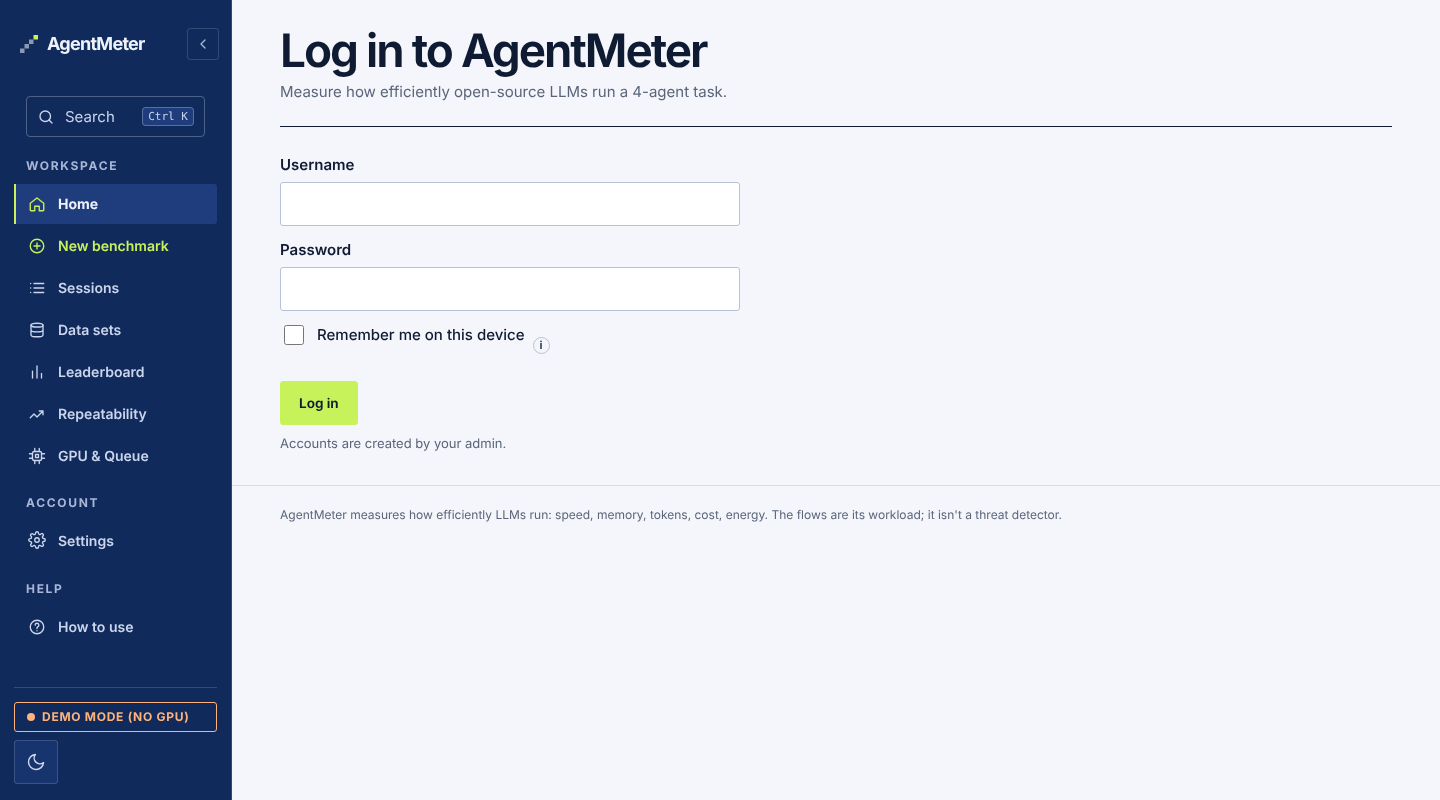
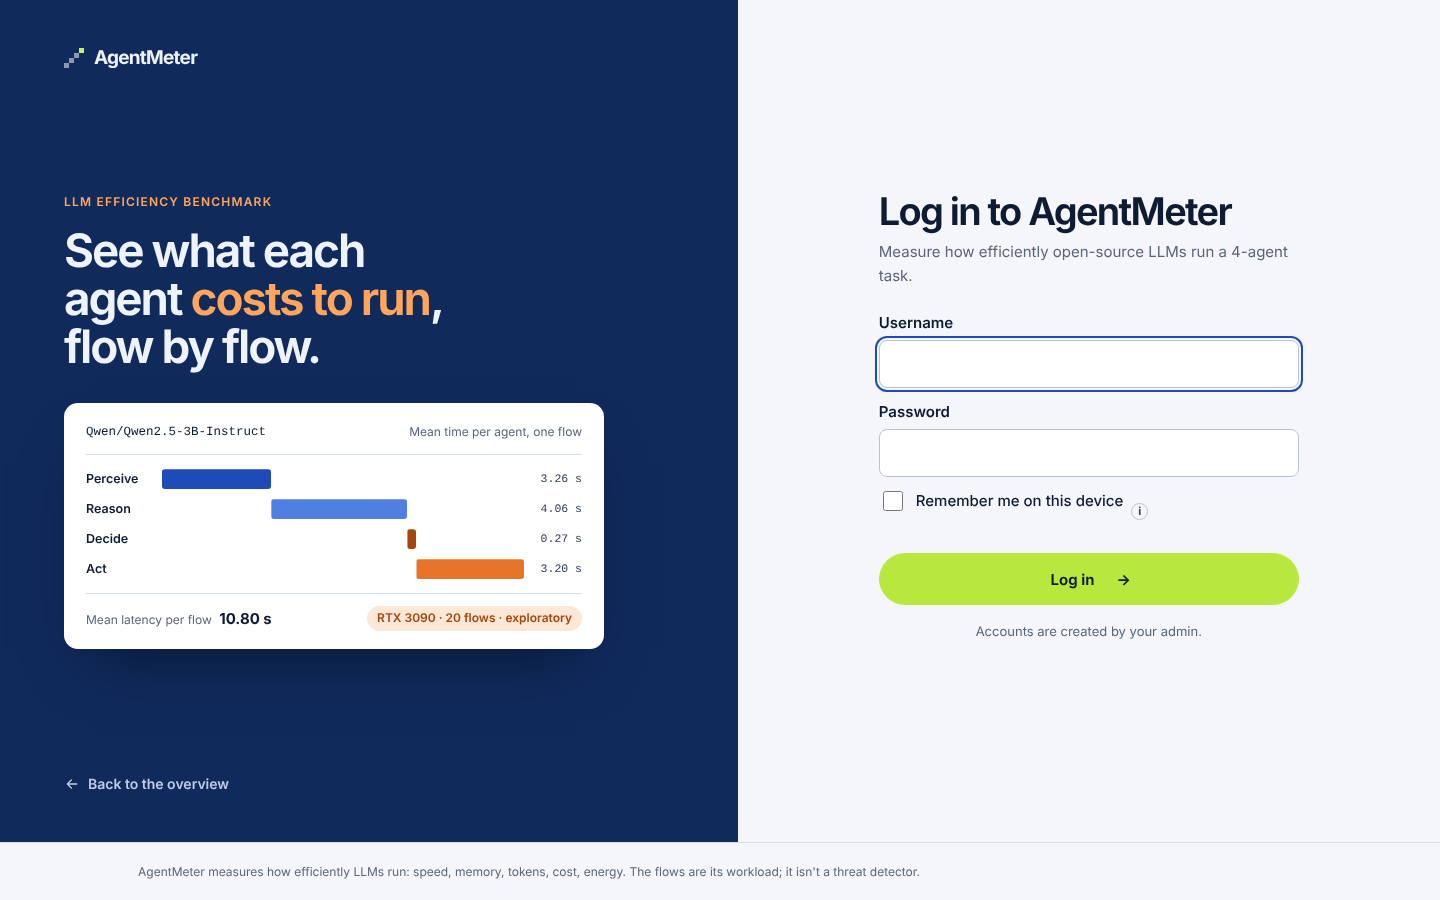
Login: a split screen like the landing page
The login view gets the landing page's navy band on the left (logo, the same headline, the real
per-agent flow chart drawn in once, a Back to the overview link to index.html) and the form on
the right with a full-width lime pill button (fill sweep and arrow nudge on hover, press on
click). While the login view is open the sidebar is hidden with a CSS :has rule, so no script
changes and the CSP hashes stay as they are; every id the login code and the walk-throughs use
is unchanged. Phones get a compact band above the form; reduced motion turns the animation off.

Claude-Session: https://claude.ai/code/session_01TypKwb2FSWwamPpmC7mRiC

diff --git a/web/app.html b/web/app.html
@@ -797,6 +797,81 @@
     :root.side-collapsed .profile-btn { width: auto; padding: 4px; }
   }
   @media (prefers-reduced-motion: reduce) { body, .top, .side-collapse svg { transition: none !important; } }
+
+  /* =====================================================================================
+     Login: a split screen like the landing page (index.html). Navy brand band with the same
+     headline and flow chart on the left, the form on the right. While the login view is open the
+     sidebar/header is hidden (CSS :has, so no script changes); every id and behaviour is unchanged.
+     ===================================================================================== */
+  body:has(#view-login:not([hidden])) .top { display: none; }
+  body:has(#view-login:not([hidden])) { padding-left: 0; }
+  body:has(#view-login:not([hidden])) main.wrap { max-width: none; padding: 0; }
+  body:has(#view-login:not([hidden])) main { padding-top: 0; }
+  body:has(#view-login:not([hidden])) footer { margin-top: 0; }
+  .login-split:not([hidden]) { display: grid; grid-template-columns: minmax(0, 1.05fr) minmax(0, 1fr); min-height: calc(100vh - 58px); }
+  .login-brand { --lf-1: var(--series-1); --lf-2: #4F7FE0; --lf-3: #A2470D; --lf-4: var(--series-2);
+    background: var(--band); color: #EEF2FA; padding: 36px clamp(24px, 4.5vw, 64px); display: flex; flex-direction: column; gap: 40px; }
+  .login-brand :focus-visible { outline-color: var(--cta); }
+  .login-logo { display: inline-flex; align-items: center; gap: 10px; align-self: flex-start; min-height: 44px; color: #EEF2FA; text-decoration: none; font-weight: 700; font-size: 19px; letter-spacing: -.04em; }
+  .login-logo svg { width: 20px; height: 20px; }
+  .login-logo .mark-a { fill: var(--cta); }
+  .login-pitch { margin: auto 0; max-width: 540px; }
+  .login-eyebrow { margin: 0; font-size: 12px; font-weight: 600; letter-spacing: .1em; text-transform: uppercase; color: #FFA65C; }
+  .login-claim { margin: 14px 0 0; font-weight: 650; font-size: clamp(32px, 3.4vw, 46px); line-height: 1.05; letter-spacing: -.045em; color: #EEF2FA; max-width: 13ch; }
+  .login-claim em { font-style: normal; color: #FFA65C; }
+  .login-flow { margin: 32px 0 0; background: var(--surface); color: var(--text); border-radius: 14px; padding: 20px 22px 18px; box-shadow: 0 30px 60px -30px rgba(0, 0, 0, .55); }
+  .lf-head { display: flex; flex-wrap: wrap; justify-content: space-between; gap: 4px 16px; padding-bottom: 12px; border-bottom: 1px solid var(--border); }
+  .lf-head b { font-family: var(--mono); font-weight: 500; font-size: 12.5px; }
+  .lf-head span, .lf-foot { font-size: 12px; color: var(--muted); }
+  .lf-rows { list-style: none; margin: 14px 0 0; padding: 0; display: grid; gap: 10px; }
+  .lf-rows li { display: grid; grid-template-columns: 66px minmax(0, 1fr) 48px; align-items: center; gap: 10px; font-size: 12.5px; font-weight: 600; }
+  .lf-track { position: relative; height: 20px; }
+  .lf-track i { position: absolute; top: 0; bottom: 0; left: var(--x); width: var(--w); min-width: 3px; border-radius: 3px; background: var(--c);
+    animation: lf-draw .7s cubic-bezier(.2, .7, .2, 1) var(--d) both; }
+  :root[data-theme="dark"] .login-brand { --lf-3: #D9783A; }
+  @media (prefers-color-scheme: dark) { :root:not([data-theme="light"]) .login-brand { --lf-3: #D9783A; } }
+  @keyframes lf-draw { from { clip-path: inset(0 100% 0 0); } to { clip-path: inset(0 0 0 0); } }
+  .lf-t { font-family: var(--mono); font-weight: 400; font-size: 11.5px; color: var(--muted-2); text-align: right; }
+  .lf-foot { display: flex; flex-wrap: wrap; justify-content: space-between; align-items: center; gap: 8px; margin-top: 14px; padding-top: 12px; border-top: 1px solid var(--border); }
+  .lf-foot strong { color: var(--text); font-size: 15px; margin-left: 4px; }
+  .lf-tag { padding: 3px 10px; border-radius: 999px; font-weight: 600; background: var(--warn-soft); color: var(--warn-text); }
+  .login-back { display: inline-flex; align-items: center; gap: 8px; align-self: flex-start; min-height: 44px; color: #BFCBE6; font-size: 14px; font-weight: 600; text-decoration: none; transition: color .16s ease; }
+  .login-back svg { width: 16px; height: 16px; fill: none; stroke: currentColor; stroke-width: 2; stroke-linecap: round; stroke-linejoin: round; transition: transform .2s cubic-bezier(.2, .7, .2, 1); }
+  @media (hover: hover) and (pointer: fine) { .login-back:hover { color: #EEF2FA; } .login-back:hover svg { transform: translateX(-3px); } }
+
+  .login-main { display: flex; align-items: center; justify-content: center; padding: 48px clamp(16px, 4vw, 56px); }
+  .login-box { width: 100%; max-width: 420px; }
+  .login-box .page-head { margin: 0; padding: 0 0 24px; border-bottom: 0; }
+  .login-box h1 { font-size: clamp(30px, 3vw, 38px); }
+  .login-box .page-head p { margin-top: 8px; }
+  .login-box .card, .login-box .card.narrow { border-top: 0; padding: 0; max-width: none; }
+  .login-box .field label { font-weight: 600; }
+  .login-box input[type="text"], .login-box input[type="password"] { width: 100%; min-height: 48px; padding: 0 14px; border-radius: 8px; font-size: 15px; }
+  .login-box .actions { margin-top: 20px; }
+  .login-box .btn.primary { position: relative; isolation: isolate; overflow: hidden; width: 100%; min-height: 52px; border-radius: 999px; font-size: 15px; justify-content: center;
+    transition: transform .2s cubic-bezier(.2, .7, .2, 1), color .16s ease; }
+  .login-box .btn.primary::before { content: ""; position: absolute; inset: 0; z-index: -1; background: var(--cta-hover); transform: scaleX(0); transform-origin: right center; transition: transform .28s cubic-bezier(.2, .7, .2, 1); }
+  .login-box .btn.primary::after { content: "\2192"; margin-left: 10px; transition: transform .2s cubic-bezier(.2, .7, .2, 1); }
+  @media (hover: hover) and (pointer: fine) {
+    .login-box .btn.primary:hover { background: var(--cta); }
+    .login-box .btn.primary:hover::before { transform: scaleX(1); transform-origin: left center; }
+    .login-box .btn.primary:hover::after { transform: translateX(4px); }
+  }
+  .login-box .btn.primary:active { transform: scale(.98); }
+  .login-box .muted.small { margin-top: 16px; text-align: center; }
+  .login-box #pwchange-form h2 { margin-bottom: 6px; }
+
+  @media (max-width: 900px) {
+    .login-split:not([hidden]) { grid-template-columns: minmax(0, 1fr); min-height: 0; }
+    .login-brand { padding: 20px 16px 28px; gap: 16px; }
+    .login-claim { font-size: 28px; }
+    .login-flow, .login-back { display: none; }
+    .login-main { padding: 32px 16px 48px; }
+  }
+  @media (prefers-reduced-motion: reduce) {
+    .lf-track i { animation: none; }
+    .login-box .btn.primary, .login-box .btn.primary::before, .login-box .btn.primary::after, .login-back, .login-back svg { transition: none; }
+  }
 </style>
 </head>
 <body>
@@ -870,7 +945,31 @@
     <button type="button" class="btn small-btn" id="svc-gpu-retry" style="margin-left:6px">Check now</button></div>
 
   <!-- LOGIN (control plane): accounts are created by the admin; no public sign-up -->
-  <section id="view-login" class="view" hidden aria-labelledby="h-login">
+  <section id="view-login" class="view login-split" hidden aria-labelledby="h-login">
+    <!-- the same navy band, headline and flow chart as the landing page (index.html) -->
+    <aside class="login-brand">
+      <a class="login-logo" href="./" aria-label="AgentMeter overview">
+        <svg viewBox="0 0 16 16" aria-hidden="true"><rect x="0" y="12" width="4" height="4" fill="currentColor" opacity=".55"/><rect x="4" y="8" width="4" height="4" fill="currentColor" opacity=".55"/><rect x="8" y="4" width="4" height="4" fill="currentColor" opacity=".55"/><rect class="mark-a" x="12" y="0" width="4" height="4"/></svg>
+        AgentMeter
+      </a>
+      <div class="login-pitch">
+        <p class="login-eyebrow">LLM efficiency benchmark</p>
+        <p class="login-claim">See what each agent <em>costs to run</em>, flow by flow.</p>
+        <figure class="login-flow" aria-label="Mean time per agent for one flow, Qwen2.5-3B-Instruct: Perceive 3.26 s, Reason 4.06 s, Decide 0.27 s, Act 3.20 s">
+          <div class="lf-head"><b>Qwen/Qwen2.5-3B-Instruct</b><span>Mean time per agent, one flow</span></div>
+          <ol class="lf-rows" aria-hidden="true">
+            <li><span>Perceive</span><span class="lf-track"><i style="--x:0%;--w:30.2%;--c:var(--lf-1);--d:.15s"></i></span><span class="lf-t">3.26 s</span></li>
+            <li><span>Reason</span><span class="lf-track"><i style="--x:30.2%;--w:37.6%;--c:var(--lf-2);--d:.45s"></i></span><span class="lf-t">4.06 s</span></li>
+            <li><span>Decide</span><span class="lf-track"><i style="--x:67.8%;--w:2.5%;--c:var(--lf-3);--d:.75s"></i></span><span class="lf-t">0.27 s</span></li>
+            <li><span>Act</span><span class="lf-track"><i style="--x:70.3%;--w:29.7%;--c:var(--lf-4);--d:.85s"></i></span><span class="lf-t">3.20 s</span></li>
+          </ol>
+          <figcaption class="lf-foot"><span>Mean latency per flow <strong>10.80 s</strong></span><span class="lf-tag">RTX 3090 · 20 flows · exploratory</span></figcaption>
+        </figure>
+      </div>
+      <a class="login-back" href="./"><svg viewBox="0 0 24 24" aria-hidden="true"><path d="M19 12H5M11 18l-6-6 6-6"/></svg>Back to the overview</a>
+    </aside>
+    <div class="login-main">
+    <div class="login-box">
     <div class="page-head"><div>
       <h1 id="h-login">Log in to AgentMeter</h1>
       <p>Measure how efficiently open-source LLMs run a 4-agent task.</p>
@@ -894,6 +993,8 @@
       <div id="pwchange-error" class="notice error" role="alert" hidden></div>
       <div class="actions"><button type="submit" class="btn primary" id="pwc-go">Save and continue</button></div>
     </form>
+    </div>
+    </div>
   </section>
 
   <!-- OFFLINE: the GPU backend cannot be reached -->
